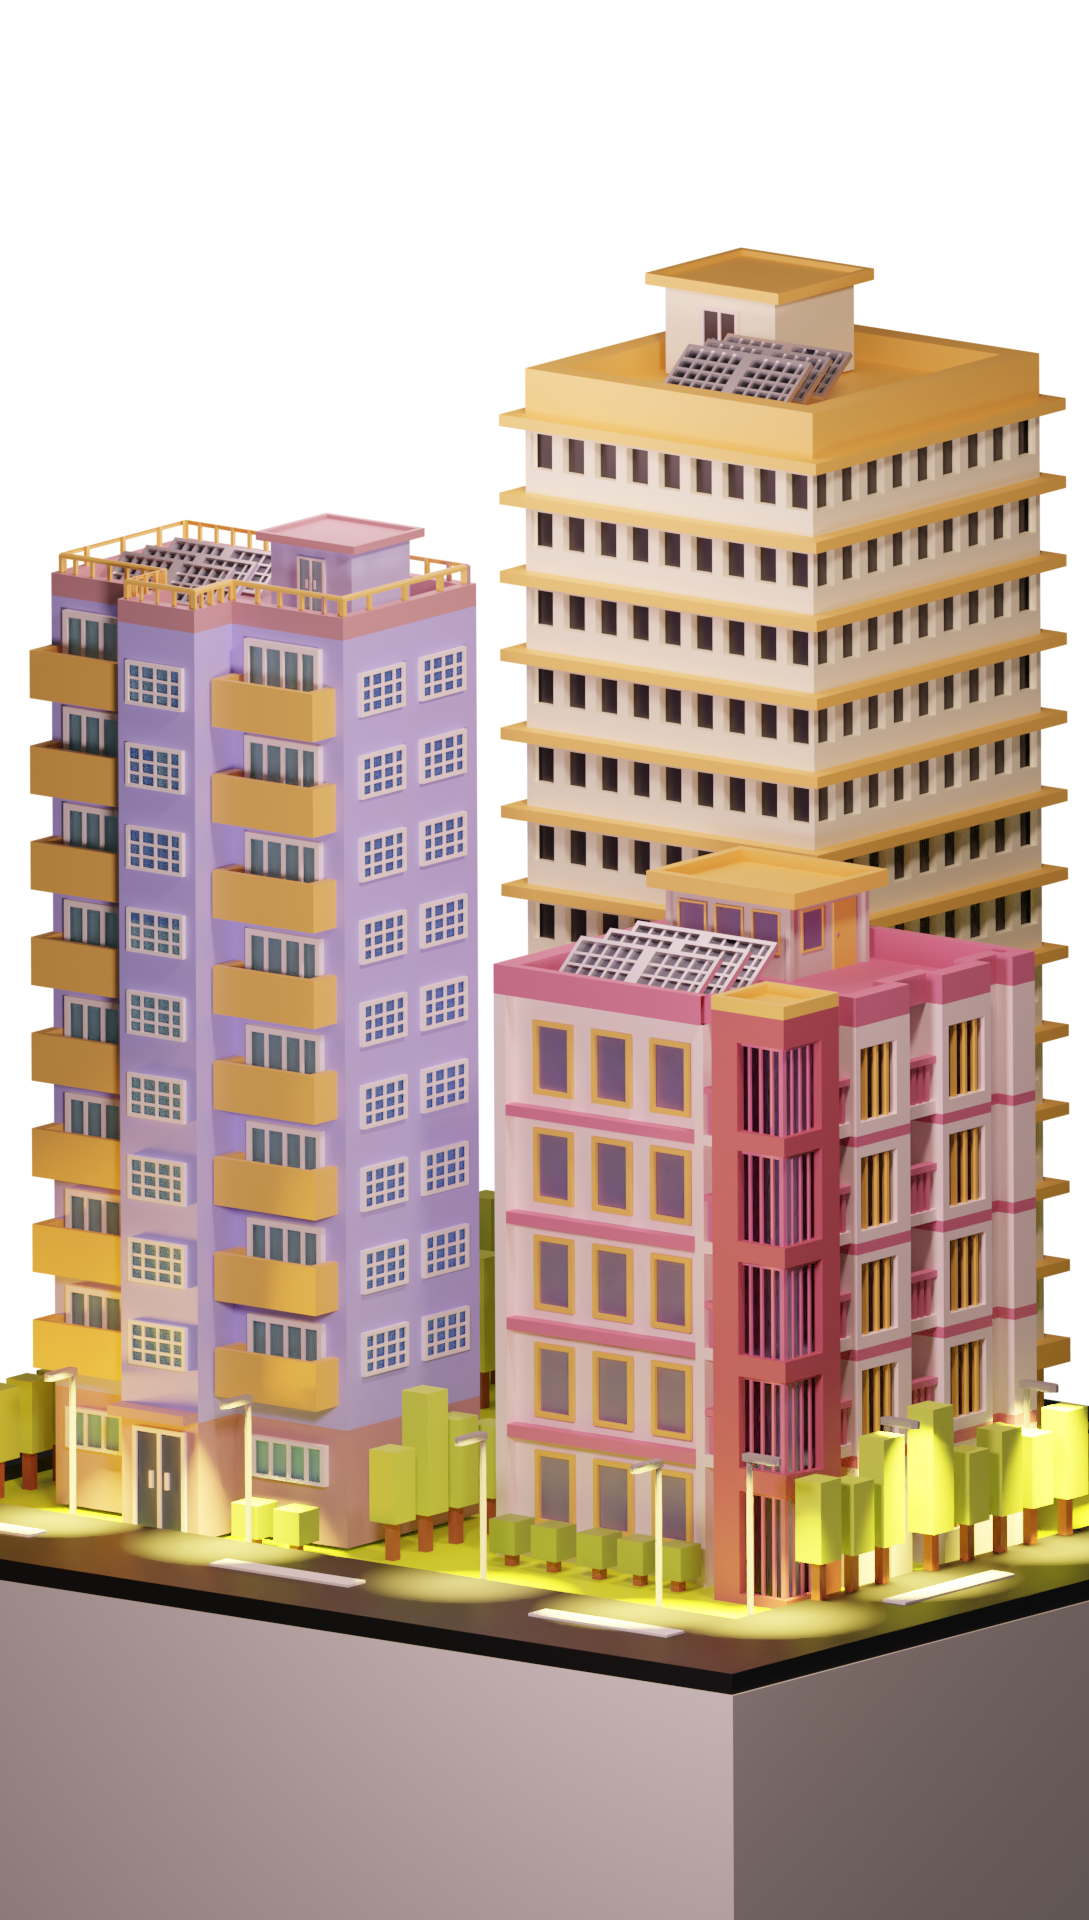
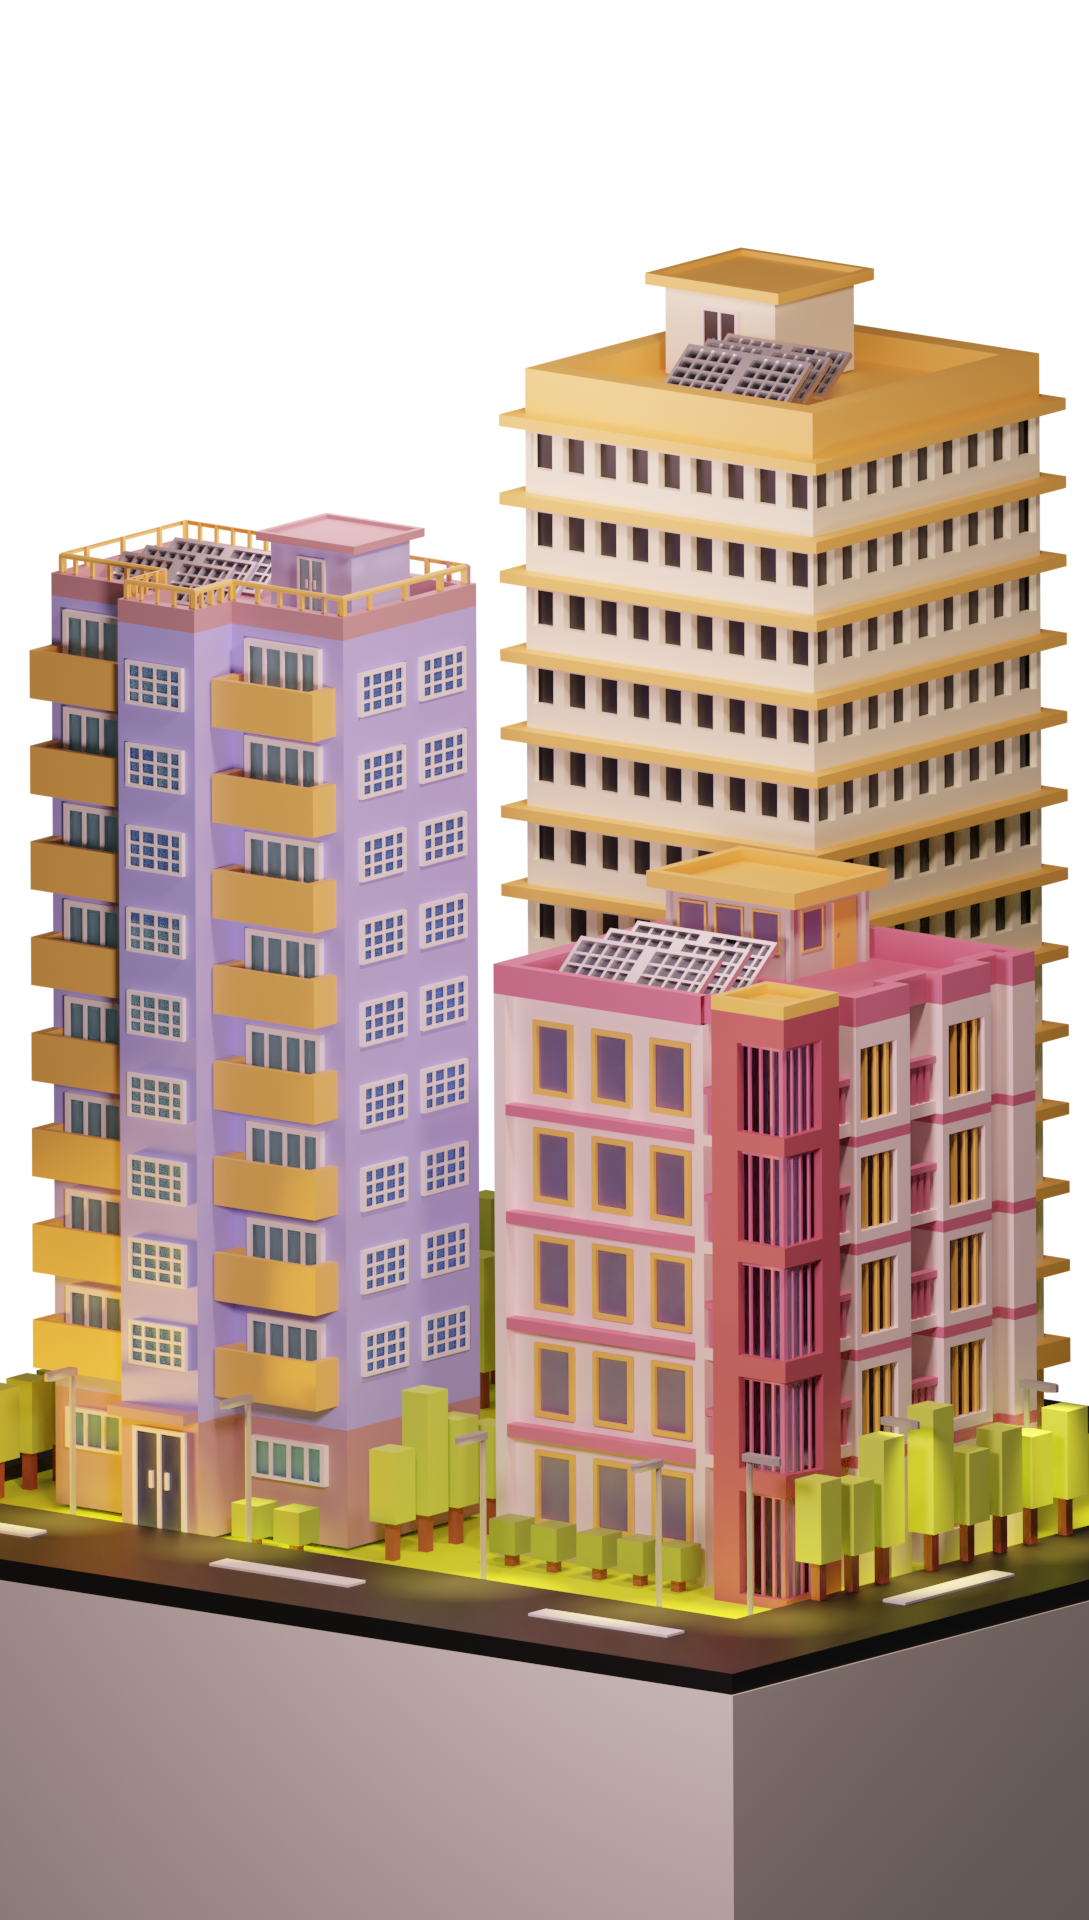
Changed group screen building picture

Changed region(s): [[0.3434, 0.7188, 1.0, 0.875], [0.0, 0.7188, 0.3122, 0.8125]]

diff --git a/screens/GroupSelectScreen.js b/screens/GroupSelectScreen.js
@@ -11,6 +11,7 @@ import EveningBackground from "../assets/Group-assets/EveningBG.png";
 import NightBackground from "../assets/Group-assets/NightSkyBG.png";
 import BuildingAfternoonLogo from "../assets/Group-assets/grpbuildingafternoon.png";
 import BuildingMorningLogo from "../assets/Group-assets/grpbuildingmorning.png";
+import BuildingNightLogo from "../assets/Group-assets/grpbuildingnight.png";
 
 import { AddGroupModal, JoinGroupModal } from "../components";
 
@@ -99,7 +100,7 @@ export default function GroupSelectScreen({ navigation }) {
   }, []);
 
   //Get Current Time
-  var currentTime = new Date("2011-04-20T08:30:51.01"); //"2011-04-20T13:30:51.01" for troubleshooting
+  var currentTime = new Date(); //"2011-04-20T13:30:51.01" for troubleshooting
   console.log(currentTime.getHours());
   var backgroundImage;
   var rectangleMaskColor;
@@ -112,7 +113,7 @@ export default function GroupSelectScreen({ navigation }) {
   } else if (currentTime.getHours() >= 19 || currentTime.getHours() <= 5) {
     backgroundImage = NightBackground;
     rectangleMaskColor = "#536D9E";
-    buildingImage = BuildingMorningLogo;
+    buildingImage = BuildingNightLogo;
   } else {
     backgroundImage = EveningBackground;
     rectangleMaskColor = "#7E98EF";
@@ -157,7 +158,7 @@ export default function GroupSelectScreen({ navigation }) {
               {
                 position: "absolute",
                 left: 30,
-                top: 120,
+                top: 100,
                 backgroundColor: "#852C2C",
               },
             ]}
@@ -189,7 +190,7 @@ export default function GroupSelectScreen({ navigation }) {
               {
                 position: "absolute",
                 left: 180,
-                top: 270,
+                top: 260,
                 backgroundColor: "#2C4085",
               },
             ]}
@@ -240,8 +241,8 @@ const styles = StyleSheet.create({
     alignSelf: "center",
   },
   buildingPicture: {
-    width: 500,
-    height: 760,
+    width: 400,
+    height: 740,
     resizeMode: "contain",
     position: "absolute",
     top: "16%",
@@ -284,15 +285,14 @@ const styles = StyleSheet.create({
     alignSelf: "center",
   },
   bottomButtonsContainer: {
-    marginTop: 20,
     width: "100%",
     flexDirection: "row",
     justifyContent: "space-evenly",
   },
   bottomButton: {
     width: "40%",
-    marginTop: 35,
     flexDirection: "row",
+    marginTop: 50,
   },
   backgroundImageRectMask: {
     justifyContent: "center",
